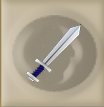
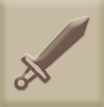
mudanças no GridPuzzle.cs para possibilitar restart da fase com os tiles na mesma posição
- Seria legal para o usuário se quando ele perdesse uma fase, os tiles
dos comandos dele ainda ficassem nas mesmas posições, certo? As mudanças
em GridPuzzle fazem isso agora. O macete foi salvar as posições dos
tiles antes de dar restart na fase. Foram mudadas as funções Start(),
Awake() e pegarPosicoesDosTilesAntesDeRestartCena(). São as 3 últimas
funções da classe. Ah, e um novo atributo para ela foi criado:
nomesDosTilesEmOrdem.
- O GoButton.cs agora precisa conhecer o gridpuzzle porque é ele quem
vai chamar o método que pega as posições dos bloquinhos.
- Os ícones dos tiles de atacar e de pulo alto foram mudados para
incorporar o design feito por vitor casquin nesses ultimos dias

diff --git a/Assets/GridPuzzle.cs b/Assets/GridPuzzle.cs
@@ -16,12 +16,17 @@ namespace AssemblyCSharp
 	{
 			public String nomeTileQueFoiClicado; //qd alguem clica num tile, esse nome muda
 			static Tile[] tiles; //diz quais as acoes a serem executadas e em que ordem
+			static String [] nomesDosTilesEmOrdem;//NOVO vou armazenar os tiles antes do restart para manter eles na ordem
+			
+			static Vector3 [] posicoesDosTiles;
 				public GridPuzzle()
 				{
 				}
 			
 				public void alguemClicouNumTile(String nomeTile)
 				{
+					//Debug.Log("em alguemClicouNumTile, nomeTileQueFoiClicado=" + nomeTileQueFoiClicado);
+					//Debug.Log("metodo alguemClicouNumTile() nomeTile=" + nomeTile);
 					if (nomeTileQueFoiClicado.Length > 0) 
 					{
 						//alguem ja havia clicado num tile antes. Vamos trocar eles de posicao. Primeiro passo: Achar
@@ -33,15 +38,22 @@ namespace AssemblyCSharp
 						for(int i = 0; i < tiles.Length; i++)
 						{
 							String nome = tiles[i].getNome();
+							Debug.Log("tile dentro do log=" + tiles[i]);
 							if(nome.CompareTo(nomeTile) == 0 || nome.CompareTo(nomeTileQueFoiClicado) == 0)
 							{
+								//Debug.Log("ACHOU TILE DE NOME IGUAL!!!!");
+								//Debug.Log("tule dentro do log=" + nome);
 								if(umTile == null)
 								{
+									//Debug.Log("UMTILE = NULL!!!!");
 									umTile = tiles[i];
+									Debug.Log("UMTILE agorah eh =" + umTile + "!!!!!!!!!!!!!!!!!!!");
+									Debug.Log("DE NOME =" + umTile.getNome() + "!!!!!!!!!!!!!!!!!!!");
 									posicaoUmTile = i;
 								}
 								else
 								{
+									//Debug.Log("UMTILE nao eh NULL!!!!");
 									outroTile = tiles[i];
 									posicaoOutroTile = i;
 								}
@@ -50,6 +62,9 @@ namespace AssemblyCSharp
 
 						//agora vamos trocar os tiles de posicao graficamente
 						object[] parametros = new object[2];
+						Debug.Log("posicaoUmTile=" + posicaoUmTile);
+						Debug.Log ("posicaoOutroTile=" + posicaoOutroTile);
+						Debug.Log ("tiles.size=" + tiles.Length);
 						parametros[0] = tiles[posicaoUmTile];
 						parametros[1] = tiles[posicaoOutroTile];
 						//StartCoroutine(trocarPosicaoDosTiles(tiles[posicaoUmTile], tiles[posicaoOutroTile]));
@@ -134,7 +149,10 @@ namespace AssemblyCSharp
 							//g2.transform.position.y --;
 						}
 					}*/
-					
+
+					//NOVO TROCAR POSICAO DOS TILES
+					//trocarPosicoesDosTilesNoArray(t1, t2);
+				
 				}
 				
 				public String[] pegarOrdemDasAcoes()
@@ -152,59 +170,134 @@ namespace AssemblyCSharp
 		// Use this for initialization
 		void Start () 
 		{
-			String nomeTiles = "tile";
-			int quantosTilesExistemNaCena = 0;
-			//primeiro vou saber quantos tiles existem na cena para saber o tamanho exato do meu array de tiles
-			for (int i = 1; i < 10; i++)  
+			if(tiles == null)
 			{
-				//sao 9 tiles no total
-				nomeTiles = nomeTiles + i;
-				GameObject gameObjectDoTile = GameObject.Find(nomeTiles);
-				if(gameObjectDoTile != null)
+				String nomeTiles = "tile";
+				int quantosTilesExistemNaCena = 0;
+				//primeiro vou saber quantos tiles existem na cena para saber o tamanho exato do meu array de tiles
+				for (int i = 1; i < 10; i++)  
 				{
-					//o tile existe na cena
-					quantosTilesExistemNaCena = quantosTilesExistemNaCena + 1;
-					nomeTiles = nomeTiles.Substring(0, nomeTiles.Length - 1); //tirei a ultima letra dessa string. Ficou so "tile"
+					//sao 9 tiles no total
+					nomeTiles = nomeTiles + i;
+					GameObject gameObjectDoTile = GameObject.Find(nomeTiles);
+					if(gameObjectDoTile != null)
+					{
+						//o tile existe na cena
+						quantosTilesExistemNaCena = quantosTilesExistemNaCena + 1;
+						nomeTiles = nomeTiles.Substring(0, nomeTiles.Length - 1); //tirei a ultima letra dessa string. Ficou so "tile"
+					}
+					else
+					{
+						//n tem mais nenhum tile na cena. Parar de procurar.
+						break;
+					}
 				}
-				else
+				
+				//agora eu sei o tamanho ideal para o arrannjo tiles
+				tiles = new Tile[quantosTilesExistemNaCena];
+				
+				//agora vou povoar esse arranjo
+				nomeTiles = "tile";
+				for (int i = 1; i < 10; i++)  
 				{
-					//n tem mais nenhum tile na cena. Parar de procurar.
-					break;
+					//vou pegar cada um dos 9 tiles, se houverem
+					//vou fazer uma busca pelo objeto de nome tile1, depois tile2 e assim vai. Se ele n existir, nao entra no arranjo tiles
+					nomeTiles = nomeTiles + i;
+					GameObject gameObjectDoTile = GameObject.Find(nomeTiles);
+					if(gameObjectDoTile != null)
+					{
+						//o tile existe na cena
+						Tile umTile = (Tile) gameObjectDoTile.GetComponent<Tile>();
+						umTile.setarNome(nomeTiles);
+						String acaoTile = gameObjectDoTile.tag; //a cao de cada tile deve estar setada como tag dele
+						umTile.setarAcao(acaoTile);
+						tiles[i - 1] = umTile; //povoei o arranjo tiles
+						
+						nomeTiles = nomeTiles.Substring(0, nomeTiles.Length - 1); //tirei a ultima letra dessa string. Ficou so "tile"
+						
+					}
+					else
+					{
+						//nao existem mais tiles na cena
+						break;
+					}
 				}
 			}
-
-			//agora eu sei o tamanho ideal para o arrannjo tiles
-			tiles = new Tile[quantosTilesExistemNaCena];
-
-			//agora vou povoar esse arranjo
-			nomeTiles = "tile";
-			for (int i = 1; i < 10; i++)  
+			else//NOVO CASO O ARRAY JA TENHA SIDO CRIADO
 			{
-				//vou pegar cada um dos 9 tiles, se houverem
-				//vou fazer uma busca pelo objeto de nome tile1, depois tile2 e assim vai. Se ele n existir, nao entra no arranjo tiles
-				nomeTiles = nomeTiles + i;
-				GameObject gameObjectDoTile = GameObject.Find(nomeTiles);
-				if(gameObjectDoTile != null)
+				int quantosTilesExistemNaCena = 0;
+				String nomeTiles = "tile";
+				//primeiro vou saber quantos tiles existem na cena para saber o tamanho exato do meu array de tiles
+				for (int i = 1; i < 10; i++)  
 				{
-					//o tile existe na cena
-					Tile umTile = (Tile) gameObjectDoTile.GetComponent<Tile>();
-					umTile.setarNome(nomeTiles);
-					String acaoTile = gameObjectDoTile.tag; //a cao de cada tile deve estar setada como tag dele
-					umTile.setarAcao(acaoTile);
-					tiles[i - 1] = umTile; //povoei o arranjo tiles
-
-					nomeTiles = nomeTiles.Substring(0, nomeTiles.Length - 1); //tirei a ultima letra dessa string. Ficou so "tile"
-
+					//sao 9 tiles no total
+					nomeTiles = nomeTiles + i;
+					GameObject gameObjectDoTile = GameObject.Find(nomeTiles);
+					if(gameObjectDoTile != null)
+					{
+						//o tile existe na cena
+						quantosTilesExistemNaCena = quantosTilesExistemNaCena + 1;
+						nomeTiles = nomeTiles.Substring(0, nomeTiles.Length - 1); //tirei a ultima letra dessa string. Ficou so "tile"
+					}
+					else
+					{
+						//n tem mais nenhum tile na cena. Parar de procurar.
+						break;
+					}
 				}
-				else
+				
+				nomeTiles = "tile";
+				Tile[] novoArranjoTiles = new Tile[quantosTilesExistemNaCena];
+				
+				
+				for (int i = 1; i < 10; i++)  
 				{
-					//nao existem mais tiles na cena
-					break;
+					//vou pegar cada um dos 9 tiles, se houverem
+					//vou fazer uma busca pelo objeto de nome tile1, depois tile2 e assim vai. Se ele n existir, nao entra no arranjo tiles
+					nomeTiles = nomeTiles + i;
+					GameObject gameObjectDoTile = GameObject.Find(nomeTiles);
+					if(gameObjectDoTile != null)
+					{
+						//o tile existe na cena
+						Tile umTile = (Tile) gameObjectDoTile.GetComponent<Tile>();
+						umTile.setarNome(nomeTiles);
+						String acaoTile = gameObjectDoTile.tag; //a cao de cada tile deve estar setada como tag dele
+						umTile.setarAcao(acaoTile);
+						novoArranjoTiles[i - 1] = umTile;
+						
+						nomeTiles = nomeTiles.Substring(0, nomeTiles.Length - 1); //tirei a ultima letra dessa string. Ficou so "tile"
+						
+					}
+					else
+					{
+						//nao existem mais tiles na cena
+						break;
+					}
 				}
+				
+				//agora eu devo fazer esses tiles ficarem na ordem desejada
+				tiles = new Tile[quantosTilesExistemNaCena];
+				int percorredorTiles = 0;
+				for(int l = 0; l < nomesDosTilesEmOrdem.Length; l++)
+				{
+					String umNome = nomesDosTilesEmOrdem[l];
+					for(int m = 0; m < novoArranjoTiles.Length; m++)
+					{
+						Tile umTile = novoArranjoTiles[m];
+						if(umNome.CompareTo(umTile.getNome()) == 0)
+						{
+							tiles[percorredorTiles] = umTile;
+							percorredorTiles = percorredorTiles + 1;
+						}
+					}
+				}
+				
 			}
-
+			
+			
+			
 			nomeTileQueFoiClicado = "";
-
+			
 		}
 		
 		
@@ -212,9 +305,78 @@ namespace AssemblyCSharp
 		}
 		void Awake() 
 		{
+			if(tiles != null)
+			{
+				//segunda vez que eh chamado, ou seja, no restart da fase.
+				String nomeTiles = "tile";
+				//posicoesDosTiles = new Vector3[tiles.Length];
+				for (int i = 1; i < 10; i++)  
+				{
+					
+					//sao 9 tiles no total
+					nomeTiles = nomeTiles + i;
+					GameObject gameObjectDoTile = GameObject.Find(nomeTiles);
+					if(gameObjectDoTile != null)
+					{
+						//o tile existe na cena
+						//TIREI Vector3 posicaoTile = gameObjectDoTile.transform.position;
+						//TIREI posicoesDosTiles[i - 1] = posicaoTile;
+						gameObjectDoTile.transform.position = posicoesDosTiles[i - 1];
+						nomeTiles = nomeTiles.Substring(0, nomeTiles.Length - 1); //tirei a ultima letra dessa string. Ficou so "tile"
+					}
+					else
+					{
+						//n tem mais nenhum tile na cena. Parar de procurar.
+						break;
+					}
+				}
+			}
+			
 			DontDestroyOnLoad(this);
+			
 		}
-
+		
+		public void pegarPosicoesDosTilesAntesDeRestartCena()//NOVO MUDEI 
+		{
+			if(tiles != null)
+			{
+				//segunda vez que eh chamado, ou seja, no restart da fase.
+				String nomeTiles = "tile";
+				posicoesDosTiles = new Vector3[tiles.Length];
+				for (int i = 1; i < 10; i++)  
+				{
+					
+					//sao 9 tiles no total
+					nomeTiles = nomeTiles + i;
+					
+					GameObject gameObjectDoTile = GameObject.Find(nomeTiles);
+					if(gameObjectDoTile != null)
+					{
+						//o tile existe na cena
+						Vector3 posicaoTile = gameObjectDoTile.transform.position;
+						posicoesDosTiles[i - 1] = posicaoTile;
+						nomeTiles = nomeTiles.Substring(0, nomeTiles.Length - 1); //tirei a ultima letra dessa string. Ficou so "tile"
+					}
+					else
+					{
+						//n tem mais nenhum tile na cena. Parar de procurar.
+						break;
+					}
+				}
+				
+				//falta pegar os nomes dos tiles em ordem
+				nomesDosTilesEmOrdem = new String[tiles.Length];
+				for(int j = 0; j < tiles.Length; j++)
+				{
+					nomesDosTilesEmOrdem[j] = tiles[j].getNome();
+				}
+				
+				DontDestroyOnLoad(this);
+			}
+			
+		}
+		
+		
 	}
 }
 

diff --git a/Assets/botaoPersonagemAnda.cs b/Assets/botaoPersonagemAnda.cs
@@ -8,12 +8,14 @@ public class botaoPersonagemAnda : MonoBehaviour
 	public Personagem fantasminha;
 	public Camera cameraPrincipal;
 	// Use this for initialization
+	public GridPuzzle puzzle;//NOVO ATRIBUTO PRO BOTAO
 	void Start () {
 	}
 	
 	//para onMouseDown ser chamado, tem de haver um collider no objeto
 	void OnMouseDown()
 	{
+			puzzle.pegarPosicoesDosTilesAntesDeRestartCena();
 			cameraPrincipal.gameObject.transform.parent = fantasminha.gameObject.transform; //a camera agora vai seguir o personagem. Entao ele vira pai da camera principal
 			//Camera.SetupCurrent(cameraPersonagemAnda);
 			fantasminha.fazerAndar();

diff --git a/Assets/GoButton.cs b/Assets/GoButton.cs
@@ -1,6 +1,8 @@
 using UnityEngine;
 using System.Collections;
 
+namespace AssemblyCSharp
+{
 public class GoButton : MonoBehaviour {
 	public jump_ghost2 fantasminha;
 	// Use this for initialization
@@ -15,4 +17,5 @@ public class GoButton : MonoBehaviour {
 	
 				}
 		}
+}
 }

diff --git a/Assets/jump_ghost2.cs b/Assets/jump_ghost2.cs
@@ -3,6 +3,9 @@ using System.Collections;
 using System.Collections.Generic;
 using System;
 
+namespace AssemblyCSharp
+{
+
 public class jump_ghost2 : MonoBehaviour 
 {
 	public Vector3 displacement;
@@ -73,4 +76,5 @@ public class jump_ghost2 : MonoBehaviour
 	}
 
 	 
+}
 }
